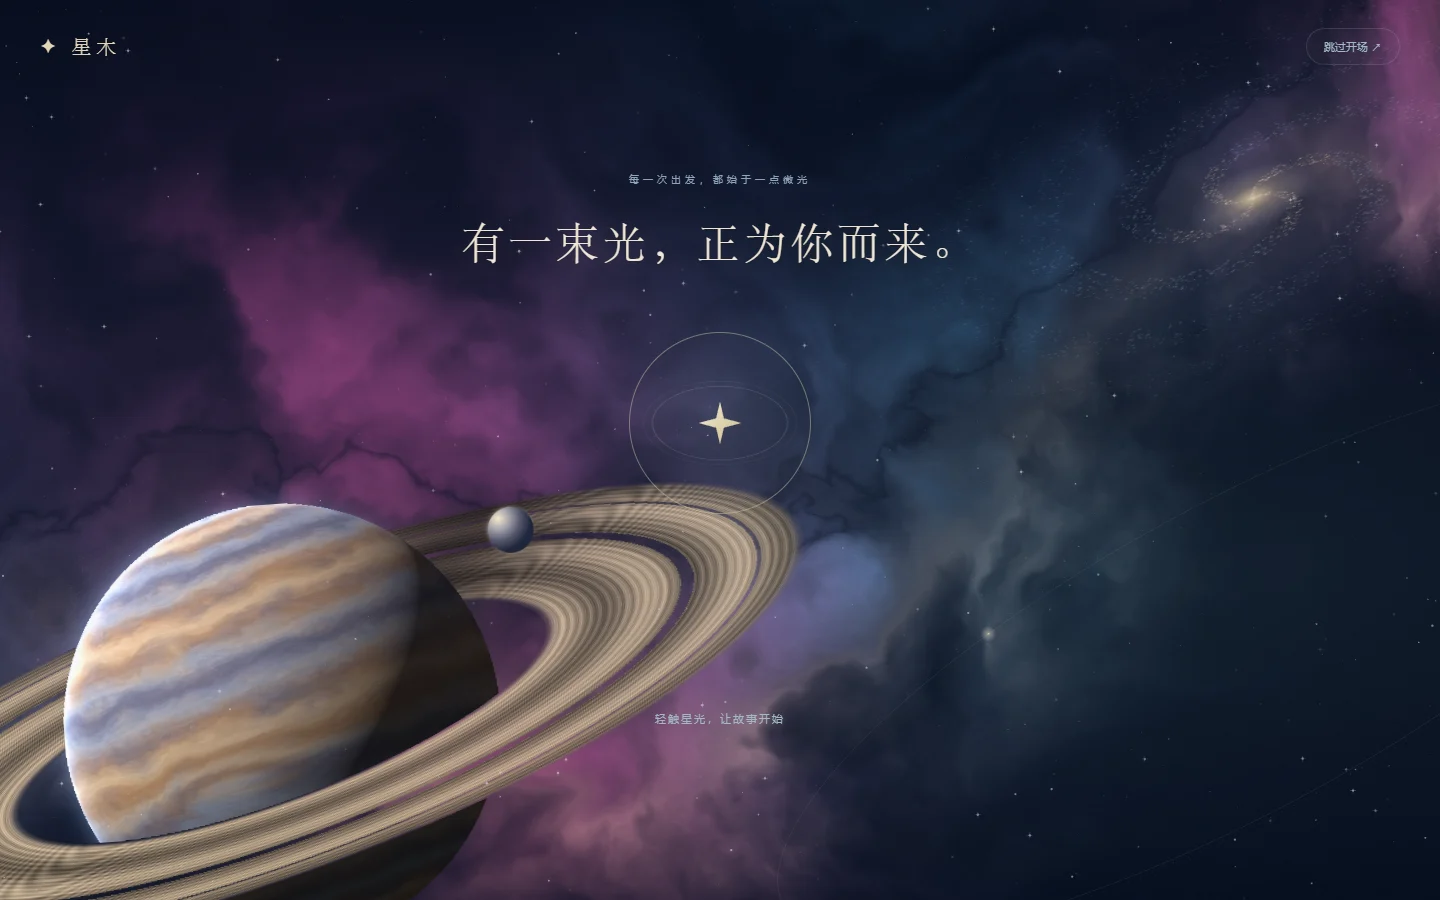
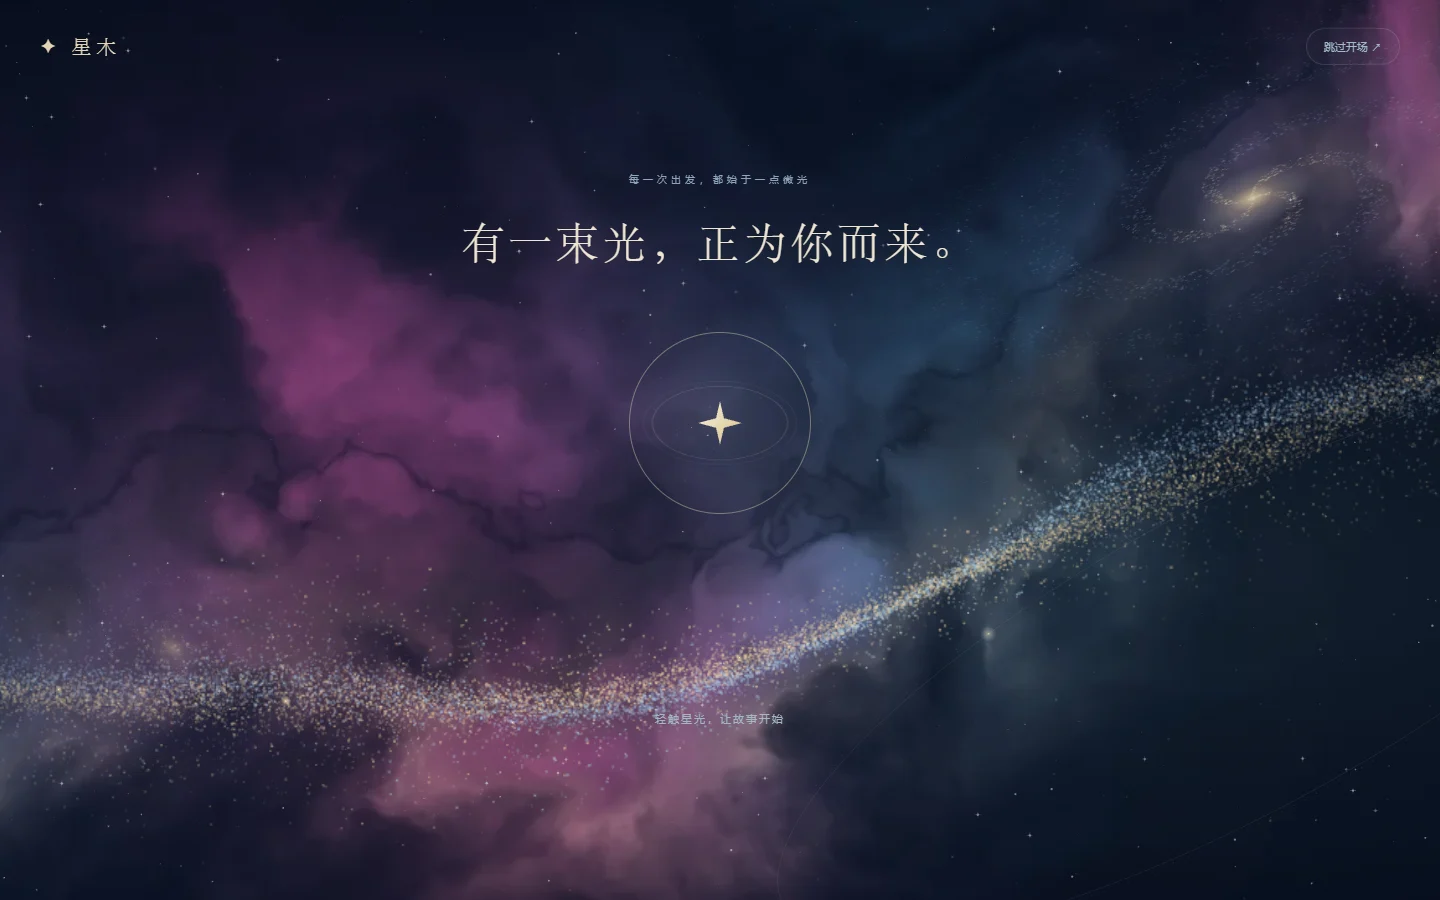
feat: replace the foreground planet with a flowing stellar tidal stream

Changed region(s): [[0.0, 0.3733, 1.0, 1.0]]

diff --git a/ui-previews/starwood-atelier/index.html b/ui-previews/starwood-atelier/index.html
@@ -1,5 +1,5 @@
 <!doctype html>
-<html lang="zh-CN"><head><meta charset="UTF-8"><meta name="viewport" content="width=device-width,initial-scale=1"><title>星木 · 晨光序曲</title><script>try{if(localStorage.getItem('starwood.intro.v1')!=='seen')document.documentElement.classList.add('intro-pending')}catch{document.documentElement.classList.add('intro-pending')}setTimeout(()=>{if(!window.StarwoodIntro)document.documentElement.classList.remove('intro-pending')},8000)</script><link rel="stylesheet" href="style.css?v=7"></head>
+<html lang="zh-CN"><head><meta charset="UTF-8"><meta name="viewport" content="width=device-width,initial-scale=1"><title>星木 · 晨光序曲</title><script>try{if(localStorage.getItem('starwood.intro.v1')!=='seen')document.documentElement.classList.add('intro-pending')}catch{document.documentElement.classList.add('intro-pending')}setTimeout(()=>{if(!window.StarwoodIntro)document.documentElement.classList.remove('intro-pending')},8000)</script><link rel="stylesheet" href="style.css?v=8"></head>
 <body data-active-panel="orbit"><canvas id="sky" aria-hidden="true"></canvas><div class="nebula"></div><div class="meteor m1"></div><div class="meteor m2"></div><div class="meteor m3"></div>
 <header class="masthead"><a class="brand" href="#"><span class="brand-mark">✦</span><span>星木<small>A SPACE TO GROW</small></span></a><div class="top-note">给时间一点秩序，给灵感一点自由。</div><div class="header-actions"><button id="replayIntro" class="quiet">重看开场</button><button id="motion" class="quiet">暂停星空</button></div></header>
 <main tabindex="-1"><div class="intro"><div><span class="eyebrow">星木学习手记</span><h1>今天，也有新的可能。</h1><p>在纸页间安放计划，在星光里慢慢生长。</p></div><div class="sky-orbit" aria-hidden="true"><i></i><i></i><i></i></div><div class="date-seal"><span>今日 / TODAY</span><strong id="todayStamp"></strong><small>慢慢来，也会到达。</small></div></div>
@@ -11,10 +11,10 @@
 <section class="task-paper"><span class="clip"></span><div class="task-head"><div><span class="eyebrow">把今天，过成喜欢的样子</span><h3 id="selectedLabel"></h3></div><span id="taskCount" class="count"></span></div><div class="ruled"><div id="tasks"></div><button class="add-task" id="add">＋ 写下一件小事</button></div><div class="task-foot"><span id="progressLabel"></span><div class="progress-track"><div id="progressBar"></div></div></div></section><div class="small-sign">让每一点进步，都被看见 <span>✦</span></div></aside></div>
 <section id="notesPanel" class="notes-panel" hidden><div class="notebook"><span class="eyebrow">THOUGHTS WORTH KEEPING</span><h2>留一点空间，给灵感。</h2><p>记下今天学会的一个知识点，或明天想继续探索的问题。</p><label for="journal">我的学习手记</label><textarea id="journal" placeholder="今天，我想记住……"></textarea><div class="journal-bottom"><span id="saveState">内容仅保存在此浏览器</span><button id="downloadNote">下载手记 TXT</button></div></div></section>
 <section id="orbitPanel" class="orbit-panel" aria-label="星伴空间">
-<div class="deep-space" aria-hidden="true"><div class="cloud-bank"></div><div class="giant-track"><img class="giant" src="ring-world.webp" alt=""><i class="satellite"></i></div></div>
+<div class="deep-space" aria-hidden="true"><div class="cloud-bank"></div></div>
 <div class="orbit-head"><span class="signal">星伴 · 烁</span><span id="orbitDate"></span></div>
 <div class="companion-layout"><div class="companion-copy"><span class="companion-kicker">与你一起，探索更多可能</span><h2>让每个想法，<br>找到自己的星轨。</h2><p>点亮一个问题，<br>或者从今天的计划开始。</p><button id="openOrbitChat" class="orbit-chat-button">和烁聊一聊 <span>↗</span></button></div>
 <div class="orbit-stage"><canvas id="orbitParticles" aria-hidden="true"></canvas><div class="companion-haze"></div><button id="sprite" aria-label="和星伴烁对话"><canvas id="crystal" width="720" height="720" aria-hidden="true"></canvas></button><span class="stage-caption">轻触烁，拾起一颗灵感</span></div></div>
 <div class="orbit-foot"><div class="orbit-summary"><span class="signal">所选日期的学习计划</span><p id="spriteMood" role="status"></p><button id="seeDay">展开学习计划 ↗</button></div><dl class="orbit-stats"><div><dt>待完成</dt><dd id="orbitPending">0</dd></div><div><dt>已完成</dt><dd id="orbitDone">0</dd></div></dl></div></section><div class="desk-footer"><span>计划有序 · 灵感自由</span><button id="export">导出本月计划</button></div></div></section><footer class="outside-footer"><span>星木 · 让时间留下温度</span><span>轻触星伴 / 记录想法 / 安排学习</span></footer></main>
-<dialog id="taskDialog"><form id="taskForm"><span class="eyebrow">A SMALL STEP FORWARD</span><h2>写下一件小事</h2><label>待办内容<input id="taskTitle" maxlength="80" required placeholder="例如：复习曲率公式，完成两道练习题"></label><label>分类<select id="taskType"><option>学习</option><option>作业</option><option>考试</option><option>计划</option></select></label><label>详细要求（选填）<textarea id="taskDetails" maxlength="2000" rows="3" placeholder="写下步骤、提交形式或验收要求"></textarea></label><label>截止时间（选填）<input id="taskTime" type="time"></label><div class="dialog-actions"><button type="button" id="cancel">取消</button><button type="submit">记在这一页</button></div></form></dialog><div id="toast" role="status"></div><script src="day-orbit.js?v=7"></script><script src="app.js?v=7"></script><script src="cosmos-scene.js?v=7"></script><script src="crystal.js?v=7"></script><script src="chat-config.js?v=7"></script><script src="companion-chat.js?v=7"></script><script src="arrival.js?v=7"></script></body></html>
+<dialog id="taskDialog"><form id="taskForm"><span class="eyebrow">A SMALL STEP FORWARD</span><h2>写下一件小事</h2><label>待办内容<input id="taskTitle" maxlength="80" required placeholder="例如：复习曲率公式，完成两道练习题"></label><label>分类<select id="taskType"><option>学习</option><option>作业</option><option>考试</option><option>计划</option></select></label><label>详细要求（选填）<textarea id="taskDetails" maxlength="2000" rows="3" placeholder="写下步骤、提交形式或验收要求"></textarea></label><label>截止时间（选填）<input id="taskTime" type="time"></label><div class="dialog-actions"><button type="button" id="cancel">取消</button><button type="submit">记在这一页</button></div></form></dialog><div id="toast" role="status"></div><script src="day-orbit.js?v=8"></script><script src="app.js?v=8"></script><script src="cosmos-scene.js?v=8"></script><script src="crystal.js?v=8"></script><script src="chat-config.js?v=8"></script><script src="companion-chat.js?v=8"></script><script src="arrival.js?v=8"></script></body></html>
 

diff --git a/ui-previews/starwood-atelier/arrival.js b/ui-previews/starwood-atelier/arrival.js
@@ -4,7 +4,7 @@
   const dialog = document.createElement('dialog');
   dialog.className = 'arrival-dialog';
   dialog.setAttribute('aria-labelledby','arrivalTitle');
-  dialog.innerHTML = '<div class="deep-space" aria-hidden="true"><div class="cloud-bank"></div><div class="giant-track"><img class="giant" src="ring-world.webp" alt=""><i class="satellite"></i></div></div><canvas class="arrival-sky" aria-hidden="true"></canvas><div class="arrival-nebula" aria-hidden="true"></div><header class="arrival-header"><span>✦ 星木</span><button type="button" class="arrival-skip">跳过开场 ↗</button></header><div class="arrival-copy"><p class="arrival-overline">每一次出发，都始于一点微光</p><h2 id="arrivalTitle">有一束光，正为你而来。</h2></div><button type="button" class="arrival-start" aria-label="点亮星光，开始开场动画"><span class="arrival-seed"></span><span class="arrival-seed-orbit"></span></button><div class="arrival-meteor" aria-hidden="true"></div><div class="arrival-bloom" aria-hidden="true"></div><button type="button" class="arrival-friend" disabled aria-label="轻触烁，进入星木"><canvas width="900" height="900" aria-hidden="true"></canvas></button><p class="arrival-hint" role="status">轻触星光，让故事开始</p><div class="arrival-white" aria-hidden="true"></div>';
+  dialog.innerHTML = '<div class="deep-space" aria-hidden="true"><div class="cloud-bank"></div></div><canvas class="arrival-sky" aria-hidden="true"></canvas><div class="arrival-nebula" aria-hidden="true"></div><header class="arrival-header"><span>✦ 星木</span><button type="button" class="arrival-skip">跳过开场 ↗</button></header><div class="arrival-copy"><p class="arrival-overline">每一次出发，都始于一点微光</p><h2 id="arrivalTitle">有一束光，正为你而来。</h2></div><button type="button" class="arrival-start" aria-label="点亮星光，开始开场动画"><span class="arrival-seed"></span><span class="arrival-seed-orbit"></span></button><div class="arrival-meteor" aria-hidden="true"></div><div class="arrival-bloom" aria-hidden="true"></div><button type="button" class="arrival-friend" disabled aria-label="轻触烁，进入星木"><canvas width="900" height="900" aria-hidden="true"></canvas></button><p class="arrival-hint" role="status">轻触星光，让故事开始</p><div class="arrival-white" aria-hidden="true"></div>';
   document.body.append(dialog);
   const sky = dialog.querySelector('.arrival-sky');
   const ctx = sky.getContext('2d');

diff --git a/ui-previews/starwood-atelier/cosmos-scene.js b/ui-previews/starwood-atelier/cosmos-scene.js
@@ -32,6 +32,47 @@
     return texture;
   }
   const galaxy = createGalaxy(442);
+  // A tidal stream, sampled once so individual grains stay coherent as it drifts.
+  function streamY(u) {
+    return .62 - .36*u + .13*Math.sin(5.9*u-.8);
+  }
+  function makeStream() {
+    const sheet=document.createElement('canvas');
+    sheet.width=1440; sheet.height=480;
+    const ink=sheet.getContext('2d');
+    let seed=8273;
+    const random=()=>(seed=seed*16807%2147483647)/2147483647;
+    for(let i=0;i<23000;i++) {
+      const u=random(), strand=i%7;
+      const spread=(random()+random()+random()-1.5);
+      const swell=.35+.65*Math.pow(Math.sin(5*u+.3),2);
+      const seam=.035*Math.sin(11*u+strand*.43)+.018*Math.cos(16*u-strand*.37);
+      const y=streamY(u)+swell*(seam+spread*(i%4===0?.16:.033));
+      const light=.15+.62*random()*Math.sin(Math.PI*u);
+      ink.fillStyle=strand<4?'rgba(250,216,163,'+light+')':'rgba(165,207,241,'+light+')';
+      const r=.35+random()*.95;
+      ink.fillRect(u*sheet.width,y*sheet.height,r*1.55,r);
+    }
+    return sheet;
+  }
+  const stream=makeStream();
+  function drawStream(ctx,w,h,t,companion) {
+    const span=w*1.24, depth=Math.min(h*.82,span*.63);
+    const left=-w*.12+w*.024*Math.sin(t/9100);
+    const top=h*(companion?.59:.70)-depth*.50+h*.018*Math.sin(t/6800);
+    ctx.save();
+    ctx.globalCompositeOperation='screen';
+    ctx.drawImage(stream,left,top,span,depth);
+    for(let i=0;i<9;i++) {
+      const u=(i*.127+t*(.000014+i*.0000006))%1;
+      const x=left+u*span, y=top+depth*(streamY(u)+.017*Math.sin(i+u*11));
+      const radius=2.3+(i%3)*1.6;
+      const glow=ctx.createRadialGradient(x,y,0,x,y,radius);
+      glow.addColorStop(0,'#fff5cf');glow.addColorStop(.20,'#eac88ba0');glow.addColorStop(1,'#d2ca9900');
+      ctx.fillStyle=glow;ctx.fillRect(x-radius,y-radius,radius*2,radius*2);
+    }
+    ctx.restore();
+  }
   function create(canvas, variant) {
     const ctx=canvas.getContext('2d');
     let width=0,height=0,stars=[],dust=[],sparks=[];
@@ -97,6 +138,7 @@
 
         orbit(width*.86,height*.73,width*.36,height*.17,-.5,t,'rgba(200,199,172,.10)');
       }
+      drawStream(ctx,width,height,t,companion);
       for(const star of stars) {
         const alpha = still ? .5 : .23 + .3*Math.sin(t*.0007+star.phase);
         const drift=t*.005*star.depth;

diff --git a/ui-previews/starwood-atelier/style.css b/ui-previews/starwood-atelier/style.css
@@ -217,19 +217,11 @@ body[data-active-panel=orbit] .workarea{padding-bottom:24px}
 @media(prefers-reduced-motion:reduce){.orbit-atmosphere,.companion-haze{animation:none!important}}
 main:focus{outline:none}
 
-/* A camera drift through the same ring system on arrival and at the observatory. */
 .deep-space{position:absolute;inset:0;overflow:hidden;pointer-events:none;isolation:isolate;background:#091325}
 .orbit-panel>.deep-space{z-index:-1}
 .cloud-bank{position:absolute;inset:-10%;background:center/cover url("nebula-field.webp");animation:cloud-passage 42s ease-in-out infinite alternate}
-.giant-track{position:absolute;width:min(82vw,1150px);aspect-ratio:1200/740;left:-18%;bottom:-18%;animation:planet-passage 25s ease-in-out infinite alternate}
-.giant{width:100%;height:100%;display:block}
-.satellite{position:absolute;width:4%;aspect-ratio:1;top:22%;left:69%;border-radius:50%;background:radial-gradient(circle at 24% 24%,#fff0cb,#a9a9ac 22%,#515467 45%,#182033 67%);box-shadow:-1px -1px 4px #ffeccb59;animation:moon-transit 22s ease-in-out infinite alternate}
-.orbit-panel .giant-track{width:64%;left:auto;right:-16%;bottom:auto;top:-11%}
 .orbit-panel .deep-space:after{content:'';position:absolute;inset:0;background:linear-gradient(90deg,#081323b3,transparent 65%),linear-gradient(0deg,#071426df,transparent 33%)}
 .arrival-dialog.revealing>.deep-space{opacity:0}
 @keyframes cloud-passage{from{transform:translate(-2%,-1%) scale(1)}to{transform:translate(3%,2%) scale(1.12)}}
-@keyframes planet-passage{from{transform:translate(-3%,2%) rotate(-4deg)}to{transform:translate(7%,-5%) rotate(3deg)}}
-@keyframes moon-transit{to{transform:translate(-220%,95%) scale(.8)}}
-@media(max-width:700px){.giant-track{width:125vw;left:-44%;bottom:-1%}.orbit-panel .giant-track{width:97%;right:-35%;top:29%}}
 .paused .deep-space *{animation-play-state:paused}
 @media(prefers-reduced-motion:reduce){.deep-space *{animation:none!important}}
